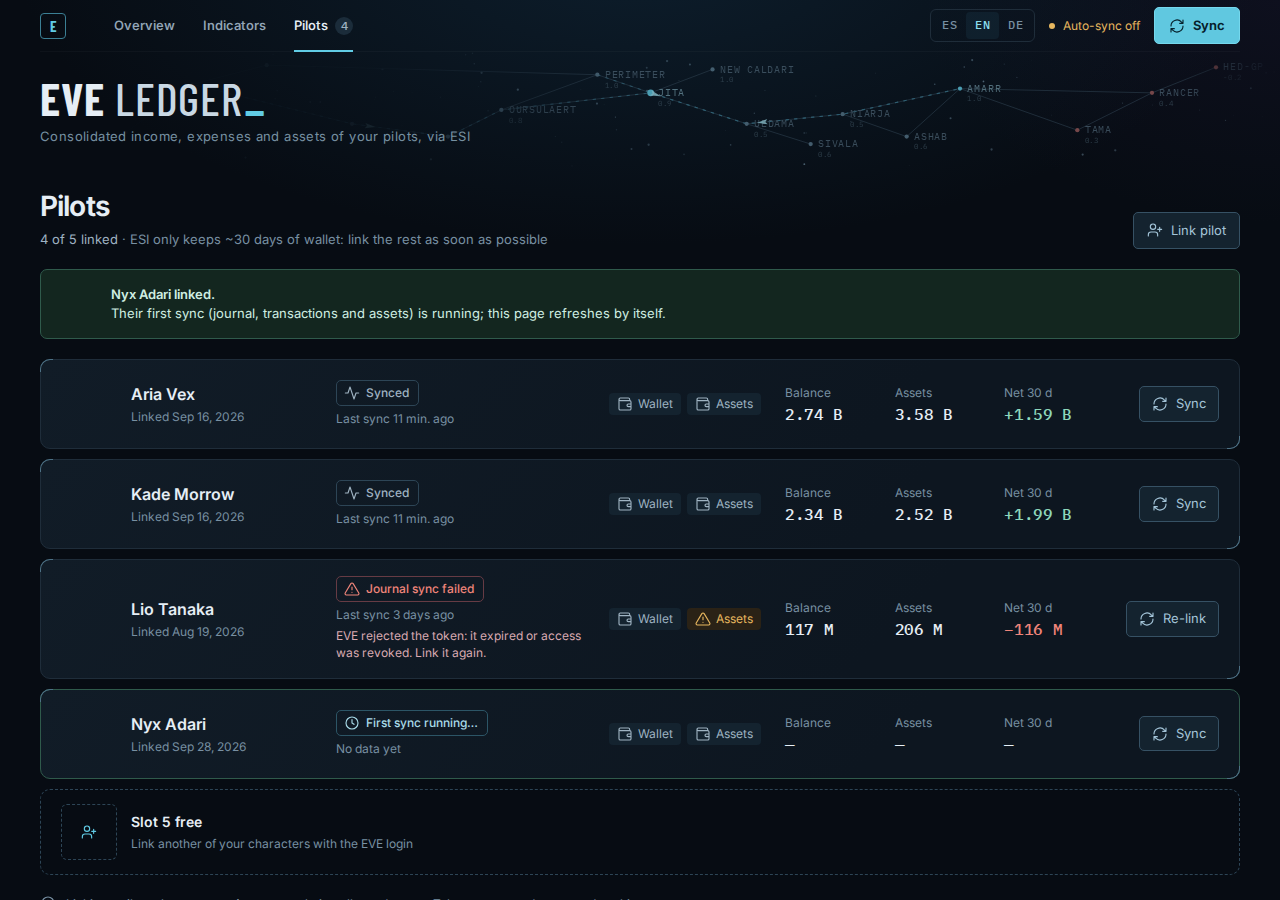
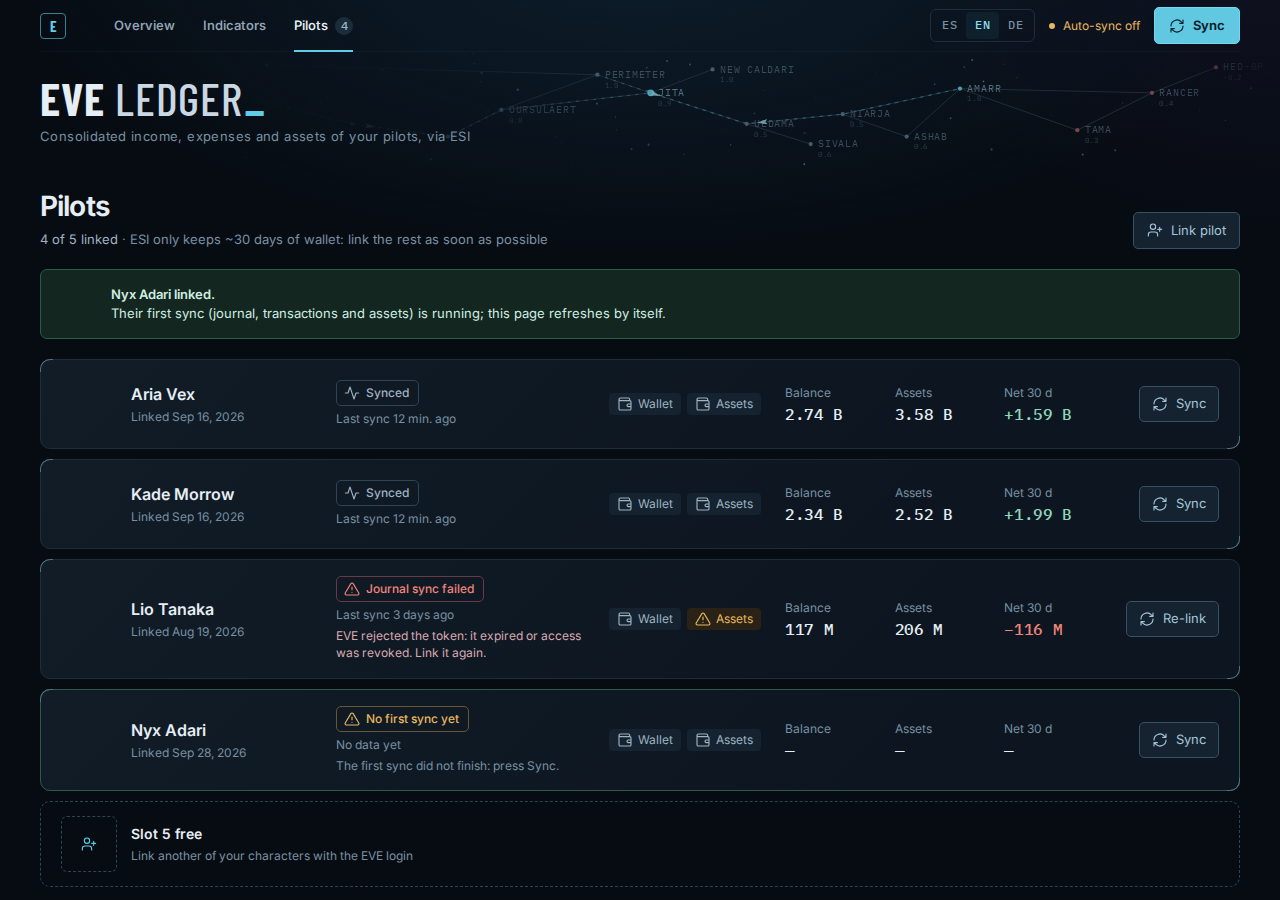
Sexta crítica: frescura por piloto, primer sync que caduca, línea de salud con acciones, Omega con el PLEX del inventario
Claude-Session: https://claude.ai/code/session_01M8WtF2MrXeJVUAxf2xqCAQ

diff --git a/apps/web/src/lib/i18n.ts b/apps/web/src/lib/i18n.ts
@@ -46,21 +46,25 @@ const es = {
   omegaCovered: 'Cubierto',
   omegaSurplus: (v: string) => `Te sobran ${v} tras pagarlo`,
   omegaProgress: 'Progreso hacia el coste de renovar todo',
-  omegaCovers: (n: number, total: number) => `El saldo cubre ${n} de ${total} cuentas`,
+  omegaCovers: (n: number, total: number) => `Cubres ${n} de ${total} cuentas`,
   omegaEta: (days: number, pace: string) =>
     `Al ritmo de los últimos 7 días (${pace} al día) lo cubres en ${days} ${days === 1 ? 'día' : 'días'}.`,
   omegaNoEta: 'Con el ritmo de los últimos 7 días (neto sin ganancia) no llegas a cubrirlo.',
   omegaCost: 'Coste de renovar todo',
   omegaBalance: 'Saldo de los wallets',
   omegaPlexNeeded: 'PLEX necesarios',
+  omegaPlexOwned: (n: string, accounts: number) => `tienes ${n} en inventario (${accounts} ${accounts === 1 ? 'cuenta' : 'cuentas'})`,
+  omegaPlexMissing: (n: string) => `faltan ${n}`,
   omegaPlexPrice: 'Precio del PLEX',
   omegaPriceMeta: (source: 'market' | 'average', when: string) =>
     `${source === 'market' ? 'venta más baja del mercado' : 'media de ESI'} · ${when}`,
   omegaNoPrice: 'Aún no hay precio del PLEX',
   omegaNoPriceHint: 'Se descarga en cada sync: sincroniza para calcularlo.',
   omegaNoPilots: 'Vincula al menos un piloto para comparar con tu saldo.',
-  omegaNote: (accounts: number, plex: string) =>
-    `Precio de venta más bajo del PLEX en el mercado, actualizado en cada sync (mientras no haya, la media global de ESI). Se asumen ${plex} PLEX por cuenta y mes y ${accounts} ${accounts === 1 ? 'cuenta' : 'cuentas'} (OMEGA_ACCOUNTS). Solo cuenta el saldo de los wallets, no el inventario.`,
+  omegaNote: (avg: string | null) =>
+    avg
+      ? `Del inventario solo cuenta el PLEX. El inventario lo valora con la media de ESI (${avg}); aquí, con la venta más baja del mercado.`
+      : 'Del inventario solo cuenta el PLEX que ya tienes.',
   now: 'ahora',
   never: 'nunca',
 
@@ -81,7 +85,7 @@ const es = {
   syncFailed: 'No se pudo sincronizar:',
   staleTitle: 'Datos desactualizados:',
   staleLast: (ago: string) => `el último sync fue ${ago}.`,
-  staleCronOff: 'El sync automático está desactivado (SYNC_INTERVAL_MIN=0);',
+  staleCronOff: 'El sync automático está desactivado;',
   staleCronFailed: 'El sync automático no ha podido completarse;',
   staleAction: 'pulsa «Sincronizar» o revisa el',
   apiDown: 'Sin enlace con la API',
@@ -122,6 +126,17 @@ const es = {
   refreshNow: 'Actualizar',
   pilotsStale: (n: number, total: number, list: string) => `${n} de ${total} ${n === 1 ? 'piloto' : 'pilotos'} sin sync reciente: ${list}`,
   reviewPilots: 'Revisar en Pilotos',
+  // Línea de salud bajo el filtro: causa corta y acción por piloto
+  healthToken: 'token caducado',
+  healthFailed: (kind: string) => `falló el sync de ${kind}`,
+  healthPending: 'primer sync en curso',
+  healthNoFirst: 'sin primer sync',
+  healthStale: (ago: string) => `sin sync ${ago}`,
+  healthReview: 'Revisar',
+  healthShort: (n: number) => `${n} ${n === 1 ? 'piloto' : 'pilotos'} sin sync reciente`,
+  asOfPartial: (n: number, total: number, ago: string) => `${n} de ${total} pilotos al día · ${ago}`,
+  asOfBroken: (ago: string) => `Datos ${ago}`,
+  asOfNoFirst: 'Sin primer sync todavía',
   activityDetailLink: 'Ver detalle por actividad',
   inSpace: 'en el espacio',
   byActivityPeriod: (days: number) => `Por actividad · últimos ${days} días`,
@@ -237,6 +252,8 @@ const es = {
   linkedOn: 'Vinculado',
   stateOk: 'Sincronizado',
   statePending: 'Primer sync en curso…',
+  stateNoFirstSync: 'Sin primer sync',
+  noFirstSyncHint: 'El primer sync no terminó: pulsa Sincronizar.',
   stateStale: 'Sin sincronizar',
   stateError: (kind: string) => `Falló el sync de ${kind}`,
   kindJournal: 'journal',
@@ -295,19 +312,23 @@ const en: Messages = {
   omegaCovered: 'Covered',
   omegaSurplus: (v) => `${v} left over after paying it`,
   omegaProgress: 'Progress toward the cost of renewing everything',
-  omegaCovers: (n, total) => `Your balance covers ${n} of ${total} accounts`,
+  omegaCovers: (n, total) => `You cover ${n} of ${total} accounts`,
   omegaEta: (days, pace) => `At the pace of the last 7 days (${pace} a day) you cover it in ${days} ${days === 1 ? 'day' : 'days'}.`,
   omegaNoEta: 'At the pace of the last 7 days (no net gain) you will not cover it.',
   omegaCost: 'Cost of renewing everything',
   omegaBalance: 'Wallet balance',
   omegaPlexNeeded: 'PLEX needed',
+  omegaPlexOwned: (n, accounts) => `you have ${n} in assets (${accounts} ${accounts === 1 ? 'account' : 'accounts'})`,
+  omegaPlexMissing: (n) => `${n} missing`,
   omegaPlexPrice: 'PLEX price',
   omegaPriceMeta: (source, when) => `${source === 'market' ? 'lowest market sell price' : 'ESI average'} · ${when}`,
   omegaNoPrice: 'No PLEX price yet',
   omegaNoPriceHint: 'It is downloaded on every sync: sync to work it out.',
   omegaNoPilots: 'Link at least one pilot to compare against your balance.',
-  omegaNote: (accounts, plex) =>
-    `Uses the lowest PLEX sell price on the market, refreshed on every sync (until there is one, the ESI global average). Assumes ${plex} PLEX per account per month and ${accounts} ${accounts === 1 ? 'account' : 'accounts'} (OMEGA_ACCOUNTS). Only wallet balances count, not assets.`,
+  omegaNote: (avg) =>
+    avg
+      ? `Only PLEX counts from your assets. Assets value it at the ESI average (${avg}); here, at the lowest market sell price.`
+      : 'Only the PLEX you already own counts from your assets.',
   now: 'just now',
   never: 'never',
 
@@ -326,7 +347,7 @@ const en: Messages = {
   syncFailed: 'Sync failed:',
   staleTitle: 'Stale data:',
   staleLast: (ago) => `the last sync was ${ago}.`,
-  staleCronOff: 'Auto-sync is off (SYNC_INTERVAL_MIN=0);',
+  staleCronOff: 'Auto-sync is off;',
   staleCronFailed: 'Auto-sync could not complete;',
   staleAction: 'press «Sync» or check the',
   apiDown: 'No connection to the API',
@@ -365,6 +386,16 @@ const en: Messages = {
   refreshNow: 'Refresh',
   pilotsStale: (n, total, list) => `${n} of ${total} ${n === 1 ? 'pilot' : 'pilots'} without a recent sync: ${list}`,
   reviewPilots: 'Review in Pilots',
+  healthToken: 'token expired',
+  healthFailed: (kind) => `${kind} sync failed`,
+  healthPending: 'first sync running',
+  healthNoFirst: 'no first sync yet',
+  healthStale: (ago) => `not synced ${ago}`,
+  healthReview: 'Review',
+  healthShort: (n) => `${n} ${n === 1 ? 'pilot' : 'pilots'} without a recent sync`,
+  asOfPartial: (n, total, ago) => `${n} of ${total} pilots up to date · ${ago}`,
+  asOfBroken: (ago) => `Data from ${ago}`,
+  asOfNoFirst: 'No first sync yet',
   activityDetailLink: 'See breakdown by activity',
   inSpace: 'in space',
   byActivityPeriod: (days) => `By activity · last ${days} days`,
@@ -476,6 +507,8 @@ const en: Messages = {
   linkedOn: 'Linked',
   stateOk: 'Synced',
   statePending: 'First sync running…',
+  stateNoFirstSync: 'No first sync yet',
+  noFirstSyncHint: 'The first sync did not finish: press Sync.',
   stateStale: 'Out of date',
   stateError: (kind) => `${kind} sync failed`,
   kindJournal: 'Journal',
@@ -532,19 +565,23 @@ const de: Messages = {
   omegaCovered: 'Gedeckt',
   omegaSurplus: (v) => `${v} bleiben nach der Zahlung übrig`,
   omegaProgress: 'Fortschritt zu den Kosten für die Verlängerung aller Accounts',
-  omegaCovers: (n, total) => `Das Guthaben deckt ${n} von ${total} Accounts`,
+  omegaCovers: (n, total) => `Du deckst ${n} von ${total} Accounts`,
   omegaEta: (days, pace) => `Im Tempo der letzten 7 Tage (${pace} pro Tag) ist es in ${days} ${days === 1 ? 'Tag' : 'Tagen'} gedeckt.`,
   omegaNoEta: 'Im Tempo der letzten 7 Tage (ohne Nettogewinn) wird es nicht gedeckt.',
   omegaCost: 'Kosten für die Verlängerung aller Accounts',
   omegaBalance: 'Wallet-Guthaben',
   omegaPlexNeeded: 'Benötigte PLEX',
+  omegaPlexOwned: (n, accounts) => `${n} im Inventar (${accounts} ${accounts === 1 ? 'Account' : 'Accounts'})`,
+  omegaPlexMissing: (n) => `${n} fehlen`,
   omegaPlexPrice: 'PLEX-Preis',
   omegaPriceMeta: (source, when) => `${source === 'market' ? 'niedrigster Verkaufspreis im Markt' : 'ESI-Durchschnitt'} · ${when}`,
   omegaNoPrice: 'Noch kein PLEX-Preis',
   omegaNoPriceHint: 'Er wird bei jedem Sync geladen: synchronisiere, um ihn zu berechnen.',
   omegaNoPilots: 'Verknüpfe mindestens einen Piloten, um dein Guthaben zu vergleichen.',
-  omegaNote: (accounts, plex) =>
-    `Verwendet den niedrigsten PLEX-Verkaufspreis im Markt, bei jedem Sync aktualisiert (bis dahin der globale ESI-Durchschnitt). Angenommen: ${plex} PLEX pro Account und Monat und ${accounts} ${accounts === 1 ? 'Account' : 'Accounts'} (OMEGA_ACCOUNTS). Es zählt nur das Wallet-Guthaben, nicht das Inventar.`,
+  omegaNote: (avg) =>
+    avg
+      ? `Aus dem Inventar zählt nur PLEX. Das Inventar bewertet es mit dem ESI-Durchschnitt (${avg}); hier gilt der niedrigste Verkaufspreis im Markt.`
+      : 'Aus dem Inventar zählt nur das PLEX, das du schon hast.',
   now: 'gerade eben',
   never: 'nie',
 
@@ -563,7 +600,7 @@ const de: Messages = {
   syncFailed: 'Synchronisierung fehlgeschlagen:',
   staleTitle: 'Veraltete Daten:',
   staleLast: (ago) => `der letzte Sync war ${ago}.`,
-  staleCronOff: 'Der Auto-Sync ist deaktiviert (SYNC_INTERVAL_MIN=0);',
+  staleCronOff: 'Der Auto-Sync ist deaktiviert;',
   staleCronFailed: 'Der Auto-Sync konnte nicht abgeschlossen werden;',
   staleAction: 'klicke auf «Synchronisieren» oder sieh im',
   apiDown: 'Keine Verbindung zur API',
@@ -603,6 +640,16 @@ const de: Messages = {
   refreshNow: 'Aktualisieren',
   pilotsStale: (n, total, list) => `${n} von ${total} ${n === 1 ? 'Pilot' : 'Piloten'} ohne aktuellen Sync: ${list}`,
   reviewPilots: 'In Piloten prüfen',
+  healthToken: 'Token abgelaufen',
+  healthFailed: (kind) => `${kind}-Sync fehlgeschlagen`,
+  healthPending: 'erster Sync läuft',
+  healthNoFirst: 'noch kein erster Sync',
+  healthStale: (ago) => `kein Sync ${ago}`,
+  healthReview: 'Prüfen',
+  healthShort: (n) => `${n} ${n === 1 ? 'Pilot' : 'Piloten'} ohne aktuellen Sync`,
+  asOfPartial: (n, total, ago) => `${n} von ${total} Piloten aktuell · ${ago}`,
+  asOfBroken: (ago) => `Daten von ${ago}`,
+  asOfNoFirst: 'Noch kein erster Sync',
   activityDetailLink: 'Aufschlüsselung nach Aktivität',
   inSpace: 'im Weltraum',
   byActivityPeriod: (days) => `Nach Aktivität · letzte ${days} Tage`,
@@ -714,6 +761,8 @@ const de: Messages = {
   linkedOn: 'Verknüpft',
   stateOk: 'Synchronisiert',
   statePending: 'Erster Sync läuft…',
+  stateNoFirstSync: 'Noch kein erster Sync',
+  noFirstSyncHint: 'Der erste Sync wurde nicht abgeschlossen: klicke auf Synchronisieren.',
   stateStale: 'Nicht aktuell',
   stateError: (kind) => `${kind}-Sync fehlgeschlagen`,
   kindJournal: 'Journal',

diff --git a/apps/api/src/services/indicators.ts b/apps/api/src/services/indicators.ts
@@ -1,6 +1,6 @@
-import { eq } from 'drizzle-orm';
+import { eq, sum } from 'drizzle-orm';
 import { db } from '../db/client';
-import { characters, marketPrices } from '../db/schema';
+import { assets, characters, marketPrices } from '../db/schema';
 import { env } from '../lib/env';
 import { PLEX_TYPE_ID, getQuote } from './quotes';
 import { getSummary, lastBalance } from './summary';
@@ -23,18 +23,24 @@ export async function omegaIndicator() {
   const plexPriceSource = market !== null ? ('market' as const) : average !== null ? ('average' as const) : null;
   const plexPriceUpdatedAt = market !== null ? quote!.updatedAt : average !== null ? price!.updatedAt : null;
 
-  // Saldo de los wallets de los pilotos vinculados; el inventario no cuenta
+  // Saldo de los wallets de los pilotos vinculados. Del inventario solo cuenta el PLEX que ya tienes:
+  // el resto no es dinero hasta que se vende
   const chars = await db.select({ id: characters.id }).from(characters);
   const balances = await Promise.all(chars.map((c) => lastBalance(c.id)));
-  const available = balances.reduce((sum, b) => sum + (b?.balance ?? 0), 0);
+  const available = balances.reduce((acc, b) => acc + (b?.balance ?? 0), 0);
+  const [owned] = await db.select({ qty: sum(assets.quantity) }).from(assets).where(eq(assets.typeId, PLEX_TYPE_ID));
+  const plexOwned = Number(owned?.qty ?? 0);
+  const plexMissing = Math.max(0, plexNeeded - plexOwned);
 
   const cost = plexPrice === null ? null : plexNeeded * plexPrice;
-  const missing = cost === null ? null : Math.max(0, cost - available);
-  const surplus = cost === null ? null : Math.max(0, available - cost);
-  const progress = cost === null || cost === 0 ? null : Math.min(1, available / cost);
-  // Cuántas cuentas cubre hoy el saldo (cada una cuesta lo mismo)
-  const accountsCovered =
-    cost === null || accounts === 0 ? null : Math.min(accounts, Math.floor(available / (cost / accounts)));
+  // Lo que queda por pagar: los PLEX que faltan, al precio actual
+  const costMissing = plexPrice === null ? null : plexMissing * plexPrice;
+  const missing = costMissing === null ? null : Math.max(0, costMissing - available);
+  const surplus = costMissing === null ? null : Math.max(0, available - costMissing);
+  const covered = cost === null ? 0 : Math.min(cost, available + Math.min(plexOwned, plexNeeded) * plexPrice!);
+  const progress = cost === null || cost === 0 ? null : covered / cost;
+  // Cuántas cuentas cubre hoy el saldo más el PLEX guardado (cada una cuesta lo mismo)
+  const accountsCovered = cost === null || accounts === 0 ? null : Math.min(accounts, Math.floor(covered / (cost / accounts)));
 
   const pace = chars.length ? (await getSummary(PACE_DAYS)).totals.net / PACE_DAYS : 0;
   const daysToCover = missing === null ? null : missing === 0 ? 0 : pace > 0 ? Math.ceil(missing / pace) : null;
@@ -44,10 +50,14 @@ export async function omegaIndicator() {
     plexPerMonth,
     months: 1,
     plexNeeded,
+    plexOwned,
+    plexMissing,
     plexPrice,
+    plexAveragePrice: average,
     plexPriceSource,
     plexPriceUpdatedAt,
     cost,
+    costMissing,
     available,
     missing,
     surplus,

diff --git a/apps/web/src/lib/pilot-state.ts b/apps/web/src/lib/pilot-state.ts
@@ -14,14 +14,22 @@ export function explainError(message: string, m: Messages): string {
   return message;
 }
 
+// Un primer sync que no ha registrado nada en este tiempo ya no está «en curso»: la API se reinició a medias
+// o el sync nunca se lanzó. Si hay un sync en marcha ahora mismo, sí puede ser el suyo
+const FIRST_SYNC_GRACE_MS = 10 * 60_000;
+
 // Estado de sync de un piloto: el mismo en la página de Pilotos y en la línea de avisos del resumen
-export function pilotState(p: Pilot, m: Messages, staleAfterMs: number): PilotState {
+export function pilotState(p: Pilot, m: Messages, staleAfterMs: number, syncRunning = false): PilotState {
   if (p.lastError) {
     const kinds: Record<string, string> = { journal: m.kindJournal, transactions: m.kindTransactions, assets: m.kindAssets };
     const kind = kinds[p.lastError.kind] ?? p.lastError.kind;
     return { kind: 'error', text: m.stateError(kind), title: p.lastError.message, hint: explainError(p.lastError.message, m) };
   }
-  if (!p.lastSyncAt) return { kind: 'pending', text: m.statePending };
+  if (!p.lastSyncAt) {
+    const recent = Date.now() - new Date(p.createdAt).getTime() < FIRST_SYNC_GRACE_MS;
+    if (syncRunning || recent) return { kind: 'pending', text: m.statePending };
+    return { kind: 'stale', text: m.stateNoFirstSync, hint: m.noFirstSyncHint };
+  }
   if (Date.now() - new Date(p.lastSyncAt).getTime() > staleAfterMs) return { kind: 'stale', text: m.stateStale };
   return { kind: 'ok', text: m.stateOk };
 }

diff --git a/apps/web/src/lib/api.ts b/apps/web/src/lib/api.ts
@@ -133,11 +133,17 @@ export type Indicators = {
     plexPerMonth: number;
     months: number;
     plexNeeded: number;
+    // PLEX que ya tienes en inventario: se descuentan de los necesarios
+    plexOwned: number;
+    plexMissing: number;
     plexPrice: number | null;
+    plexAveragePrice: number | null;
     // market = venta más baja de las órdenes (se refresca en cada sync); average = media global de ESI
     plexPriceSource: 'market' | 'average' | null;
     plexPriceUpdatedAt: string | null;
     cost: number | null;
+    // Coste de los PLEX que faltan (lo que queda por pagar)
+    costMissing: number | null;
     available: number;
     missing: number | null;
     surplus: number | null;

diff --git a/CLAUDE.md b/CLAUDE.md
@@ -35,8 +35,9 @@ Proyecto personal, corre solo en localhost. Responder siempre en español neutro
 - Migraciones: `bun run db:generate` las crea; se aplican solas al arrancar (`runMigrations()`) o sin arrancar con `bun run db:migrate` (desde `apps/api`).
 - Idiomas de la web: español (predeterminado), inglés y alemán (`src/lib/i18n.ts`, diccionarios tipados: todo texto visible va ahí, nunca literal en las plantillas). Selector ES/EN/DE en la barra superior → `/lang?to=xx&back=…` guarda la cookie `lang`. Formatos de número/fecha y tiempos relativos con `Intl` según el idioma; la notación k/M/B de ISK y los nombres de ESI no se traducen.
 
-- Indicadores (`/indicadores`, `GET /indicators`, `src/services/indicators.ts`): pestaña con metas medidas contra el **saldo de los wallets** (suma del último `balance` de cada piloto; el inventario no cuenta). Hoy, «Omega de todas las cuentas»: sin fechas de caducidad, solo el coste de renovar todo = `OMEGA_ACCOUNTS` (5) × `OMEGA_PLEX_PER_MONTH` (500) × 1 mes, con el PLEX (tipo 44992) a su precio de venta más bajo en el mercado: `refreshPlexQuote()` (`src/services/quotes.ts`) lo pide en cada sync (órdenes públicas del mercado global de PLEX, región 19000001; una sola vez por ronda de `syncAll`, tabla `market_quotes`) y, mientras no haya cotización, se usa la media de ESI de `market_prices`; la web indica cuál de las dos es (`plexPriceSource`). Sin precio guardado los campos de coste son `null` y la web lo dice; los «días para cubrirlo» usan el neto medio de los últimos 7 días. La rejilla de `indicadores.astro` admite más tarjetas.
-- Quinta crítica: el vistazo es `.hero-body` (Neto, «Hoy» y «Por actividad» con su título de período; 3 columnas desde 880 px de tarjeta, 2 desde 520 px, apilado en estrecho: Neto → composición → Hoy). El mapa «tu New Eden» solo va junto a Patrimonio si algún sistema ganó ISK hoy; si no, Patrimonio se compacta (`.worth.compact`, `.glance.solo`) y el mapa baja a la sección de inventario. Los estados de piloto se comparten en `apps/web/src/lib/pilot-state.ts` (Resumen y Pilotos). El destino de «Saltar al contenido» es `#contenido` (`.skip-target`), antes de las pestañas de período.
+- Indicadores (`/indicadores`, `GET /indicators`, `src/services/indicators.ts`): pestaña con metas medidas contra el **saldo de los wallets** (suma del último `balance` de cada piloto). Del inventario solo cuenta el **PLEX que ya tienes** (`assets` con tipo 44992: se descuenta de los PLEX necesarios; el resto del inventario no es dinero hasta venderse). Hoy, «Omega de todas las cuentas»: sin fechas de caducidad, solo el coste de renovar todo = `OMEGA_ACCOUNTS` (5) × `OMEGA_PLEX_PER_MONTH` (500) × 1 mes, con el PLEX (tipo 44992) a su precio de venta más bajo en el mercado: `refreshPlexQuote()` (`src/services/quotes.ts`) lo pide en cada sync (órdenes públicas del mercado global de PLEX, región 19000001; una sola vez por ronda de `syncAll`, tabla `market_quotes`) y, mientras no haya cotización, se usa la media de ESI de `market_prices`; la web indica cuál de las dos es (`plexPriceSource`). Sin precio guardado los campos de coste son `null` y la web lo dice; los «días para cubrirlo» usan el neto medio de los últimos 7 días y cierran la tarjeta (la nota al pie solo explica por qué el PLEX vale distinto que en el inventario, que usa la media de ESI). La rejilla de `indicadores.astro` es `auto-fill` para que una tarjeta sola no se estire a todo el ancho; admite más tarjetas.
+- Quinta crítica: el vistazo es `.hero-body` (Neto, «Hoy» y «Por actividad» con su título de período; 3 columnas desde 880 px de tarjeta, 2 desde 520 px, apilado en estrecho: Neto → composición → Hoy). El mapa «tu New Eden» solo va junto a Patrimonio si algún sistema ganó ISK hoy; si no, Patrimonio se compacta (`.worth.compact`, `.glance.solo`) y el mapa baja a la sección de inventario. Los estados de piloto se comparten en `apps/web/src/lib/pilot-state.ts` (Resumen y Pilotos); «Primer sync en curso…» solo mientras haya un sync en marcha (`/sync/status`) o el vínculo tenga < 10 min, si no pasa a «Sin primer sync» con Sincronizar como acción (y Pilotos deja de recargarse cada 15 s). El destino de «Saltar al contenido» es `#contenido` (`.skip-target`), antes de las pestañas de período.
+- Sexta crítica (honestidad de los datos): la frescura de la tarjeta de Neto es la del piloto filtrado (`selected.lastSyncAt`), no la del sync más reciente de todos; si ese piloto está roto o viejo, la tarjeta se apaga (`.hero-stat.stale`, neto y actividades en gris) y la línea «Al último sync» dice la causa y la acción («Datos hace 3 d · Falló el sync de journal · Revincular»). En consolidado dice cuántos están al día («2 de 4 pilotos al día · hace 12 min», en ámbar si no son todos). El aviso global «Datos desactualizados» solo mira el sync más reciente de todos (`globalLastSync`). La línea de salud bajo el filtro es una por piloto con causa corta y acción inline (Revincular → login de EVE, Sincronizar → `POST /sync` del piloto con `.link-button`, Revisar → Pilotos); en móvil (≤600 px) se sustituye por «2 pilotos sin sync reciente · Pilotos». El chip «Sync automático desactivado» sigue en ámbar a propósito. En tarjetas < 520 px «Hoy» es una fila compacta (22 px) justo bajo el neto y la composición va después. La comparación con el período anterior va en texto neutro y solo la flecha lleva el signo.
 
 ## Esquema (`src/db/schema.ts`)
 `characters`, `wallet_journal`, `wallet_transactions` (con `client_id` y `journal_ref_id`), `names`, `assets`, `market_prices`, `market_quotes`, `systems`, `station_systems`, `sync_log` (con `kind`: `journal` | `transactions` | `assets`).
@@ -58,7 +59,8 @@ Proyecto personal, corre solo en localhost. Responder siempre en español neutro
 - [x] 13. Tercera crítica de impeccable (27/40) resuelta entera: tabla diaria con scroll propio y cifras sin «ISK» por celda, desglose por actividad en la tarjeta de Neto, mapa con etiquetas de ~11 px, comparación en frase («232 M menos que los 7 días anteriores (antes +1,06 B)»), vocabulario unificado (ingresos/gastos, Saldo/Wallets/Guthaben), pilotos sin sync como «—», título del neto con la cobertura («solo 42 con historial») y nota de la revisión de mercado (cuenta transacciones, no movimientos de wallet). Decisión: el eje del gráfico se reescala con el filtro por piloto para que cada piloto se lea bien; las cifras del eje lo dicen.
 - [x] 14. Cuarta crítica de impeccable (28/40, sin P1) resuelta entera: franja de marca sin anillo ni parpadeo, frescura junto a «Hoy» y causa de los avisos con enlace, recarga automática que respeta la lectura, actividades sin duplicar (tarjeta = vistazo, panel = detalle) y suelo de texto de 13/12 px con Patrimonio a 24 px. Pendiente de esa crítica: nada.
 - [x] 15. Quinta crítica de impeccable (29/40) resuelta: vistazo reestructurado, mapa condicionado a ganancias de hoy, motivo de los pilotos sin sync y destino del salto al contenido.
-- [x] 16. Dashboard de Indicadores: Omega de todas las cuentas (coste de renovar vs. saldo de los wallets).
+- [x] 16. Dashboard de Indicadores: Omega de todas las cuentas (coste de renovar vs. saldo de los wallets + PLEX en inventario; precio del PLEX del mercado en cada sync).
+- [x] 17. Sexta crítica de impeccable (29/40) resuelta entera: frescura por piloto con causa, primer sync que caduca, línea de salud con acciones, Indicadores a 600 px cerrando con el ETA, «Hoy» bajo el neto en móvil.
 
 ## Paso 4 — especificación
 - `src/services/sync.ts`: `syncJournal(characterId)`
